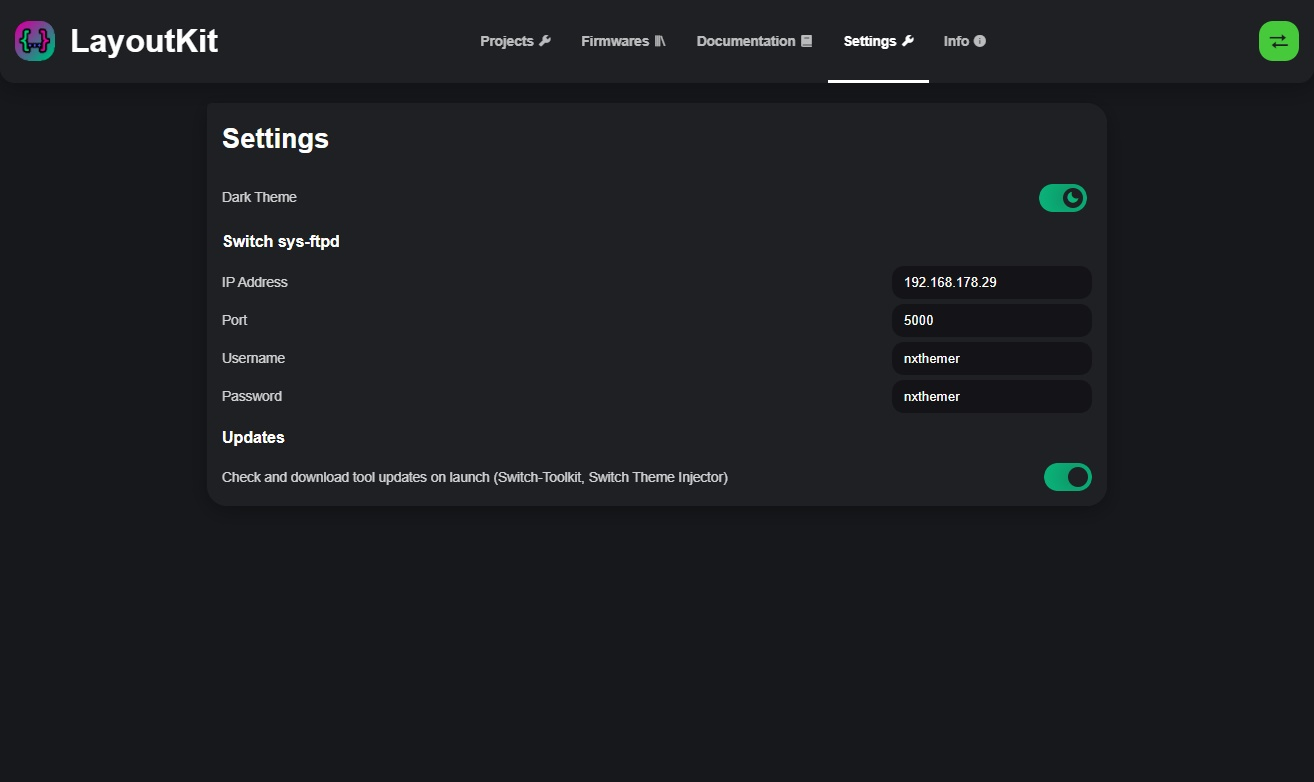
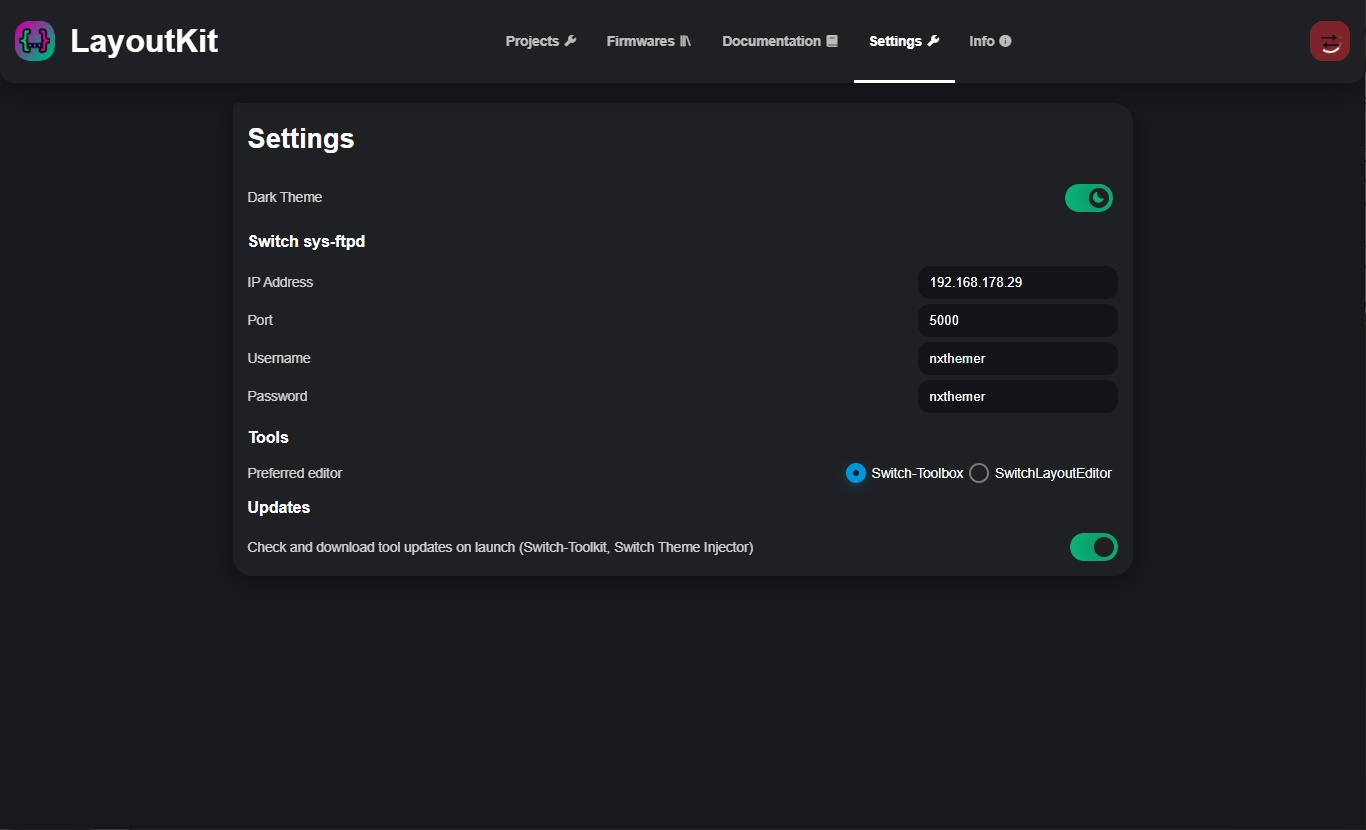
Add support for SwitchLayoutEditor

diff --git a/src/renderer/plugins/managers/toolManager.ts b/src/renderer/plugins/managers/toolManager.ts
@@ -4,6 +4,7 @@ import {
     FIRMWARES_DIR,
     getFiles,
     LAYOUTEDITOR_DIR,
+    LAYOUTEDITOR_EXE,
     PROJECTS_DIR,
     SARCTOOL_DIR,
     SARCTOOL_EXE,
@@ -219,7 +220,7 @@ export default (context: any, inject: any) => {
             // await $toolManager.updateSarcTool();
             await $toolManager.updateThemeInjector();
             await $toolManager.updateToolbox();
-            // await $toolManager.updateLayoutEditor();
+            await $toolManager.updateLayoutEditor();
             context.store.commit("CHECKING_FOR_TOOL_UPDATES_MESSAGE", "");
         },
         szs: {
@@ -244,36 +245,46 @@ export default (context: any, inject: any) => {
                 });
             },
         },
-        toolbox: {
+        editor: {
             open() {
                 return this.openPaths([]); // quick solution
             },
-            openPaths(paths: Array<string>) {
+            openPaths(paths: Array<string>, awaitClose: boolean = false) {
                 return new Promise(async (resolve) => {
                     const userDataPath = await context.$ipcService.fs.getUserDataPath();
-                    const toolboxPath = path.join(userDataPath, TOOLS_DIR, TOOLBOX_DIR, TOOLBOX_EXE);
-                    const ls = spawn(toolboxPath, paths);
-                    ls.stdout.on("data", () => {
+                    let editorPath;
+                    if (context.store.state.settings.preferredEditor === "toolbox") {
+                        editorPath = path.join(userDataPath, TOOLS_DIR, TOOLBOX_DIR, TOOLBOX_EXE);
+                    } else if (context.store.state.settings.preferredEditor === "layouteditor") {
+                        editorPath = path.join(userDataPath, TOOLS_DIR, LAYOUTEDITOR_DIR, LAYOUTEDITOR_EXE);
+                    }
+
+                    const ls = spawn(editorPath, paths);
+                    if (awaitClose) {
+                        ls.stdout.on("end", () => {
+                            resolve(null);
+                        });
+                    } else {
                         setTimeout(() => {
                             resolve(null);
                         }, 500);
-                    });
+                    }
                 });
             },
-            async openFolder(dirPath) {
+            async openFolder(dirPath, awaitClose: boolean = false) {
                 const filePaths = getFiles(dirPath)
                     .map((f) => path.join(dirPath, f));
-                await this.openPaths(filePaths);
+                await this.openPaths(filePaths, awaitClose);
             },
             async openProjectFiles(projectId: string, files: Array<string>) {
                 const userDataPath = await context.$ipcService.fs.getUserDataPath();
                 const filePaths = files.map((f) => path.join(userDataPath, PROJECTS_DIR, projectId, f));
-                await this.openPaths(filePaths);
+                await this.openPaths(filePaths, true);
             },
             async openProjectFolder(projectId) {
                 const userDataPath = await context.$ipcService.fs.getUserDataPath();
                 const projectPath = path.join(userDataPath, PROJECTS_DIR, projectId);
-                await this.openFolder(projectPath);
+                await this.openFolder(projectPath, true);
             },
         },
         layoutinjector: {
@@ -298,7 +309,7 @@ export default (context: any, inject: any) => {
                                 } else {
                                     // Prettify the json
                                     const json = editJsonFile(savePath, {stringify_width: 4});
-                                    json.set("PatchName", newFileName)
+                                    json.set("PatchName", newFileName);
                                     json.save();
                                 }
                                 resolve(null);

diff --git a/src/renderer/pages/settings.vue b/src/renderer/pages/settings.vue
@@ -85,6 +85,22 @@
                                 </vs-input>
                             </template>
                         </vse-list-item>
+                        <h3>Tools</h3>
+                        <vse-list-item>
+                            <template #description>
+                                Preferred editor
+                            </template>
+                            <template #button>
+                                <div class="radio">
+                                    <vs-radio color="#0096D8" v-model="preferredEditor" val="toolbox">
+                                        Switch-Toolbox
+                                    </vs-radio>
+                                    <vs-radio color="#0096D8" v-model="preferredEditor" val="layouteditor">
+                                        SwitchLayoutEditor
+                                    </vs-radio>
+                                </div>
+                            </template>
+                        </vse-list-item>
                         <h3>Updates</h3>
                         <vse-list-item>
                             <template #description>
@@ -175,6 +191,14 @@ export default {
                 this.$store.commit("settings/CHECK_TOOL_UPDATES_ON_LAUNCH", value);
             },
         },
+        preferredEditor: {
+            get() {
+                return this.$store.state.settings.preferredEditor;
+            },
+            set(value) {
+                this.$store.commit("settings/PREFERRED_EDITOR", value);
+            },
+        },
     },
     head() {
         const metaTitle = "Settings - LayoutKit";
@@ -193,3 +217,9 @@ export default {
     },
 };
 </script>
+
+<style lang="scss" scoped>
+.radio {
+    display: inline-flex;
+}
+</style>

diff --git a/src/renderer/components/projectBrowser.vue b/src/renderer/components/projectBrowser.vue
@@ -266,13 +266,13 @@ export default {
         },
         openFileInToolbox(fileName) {
             this.$set(this.openFileInToolboxLoading, fileName, true);
-            this.$toolManager.toolbox.openProjectFiles(this.activeProjectId, [fileName]).then(() => {
+            this.$toolManager.editor.openProjectFiles(this.activeProjectId, [fileName]).then(() => {
                 this.$set(this.openFileInToolboxLoading, fileName, false);
             });
         },
         openInToolbox() {
             this.openInToolboxLoading = true;
-            this.$toolManager.toolbox.openProjectFolder(this.activeProjectId).then(() => {
+            this.$toolManager.editor.openProjectFolder(this.activeProjectId).then(() => {
                 this.openInToolboxLoading = false;
             });
         },

diff --git a/src/renderer/pages/index.vue b/src/renderer/pages/index.vue
@@ -26,6 +26,11 @@
                                        @click.prevent="$ipcService.system.openUrl('https://github.com/KillzXGaming/Switch-Toolbox')">
                                         Switch-Toolbox
                                     </a>
+                                    or
+                                    <a href="#"
+                                       @click.prevent="$ipcService.system.openUrl('https://github.com/FuryBaguette/SwitchLayoutEditor')">
+                                        SwitchLayoutEditor
+                                    </a>
                                 </li>
                                 <li>Import and export layout json files using
                                     <a href="#"

diff --git a/src/renderer/store/settings.ts b/src/renderer/store/settings.ts
@@ -6,6 +6,7 @@ export const state = () => ({
     ftpUsername: "nxthemer",
     ftpPassword: "nxthemer",
     checkToolUpdatesOnLaunch: true,
+    preferredEditor: "toolbox",
 });
 
 export const mutations = {
@@ -29,5 +30,8 @@ export const mutations = {
     },
     CHECK_TOOL_UPDATES_ON_LAUNCH(state: any, value: boolean) {
         state.checkToolUpdatesOnLaunch = value;
+    },
+    PREFERRED_EDITOR(state: any, value: string) {
+        state.preferredEditor = value;
     },
 };

diff --git a/src/renderer/plugins/managers/firmwareManager.ts b/src/renderer/plugins/managers/firmwareManager.ts
@@ -102,7 +102,7 @@ export default (context: any, inject: any) => {
                         // Very unlikely!
                         fs.renameSync(filePath, filePath.replace(fileName, `${version}-${fileName}`));
                     }
-                    context.$toolManager.toolbox.openFolder(dirPath).then(resolve);
+                    context.$toolManager.editor.openFolder(dirPath).then(resolve);
                 });
             });
         },

diff --git a/README.md b/README.md
@@ -11,7 +11,7 @@ LayoutKit is a tool that makes it easier to create Nintendo Switch layouts.
 ## **Features** 📝
 
 - Easy project environment management
-- Easily and visually edit files in Switch-Toolbox
+- Easily and visually edit files in Switch-Toolbox or SwitchLayoutEditor
 - Import and export layout json files using Switch Theme Injector
 - Wirelessly transfer menu files to the Switch over FTP
 - Automatically push files after changes were made
@@ -31,6 +31,7 @@ LayoutKit is a tool that makes it easier to create Nintendo Switch layouts.
 ## **Included in this kit** 📜
 
 - [Switch Toolbox](https://github.com/KillzXGaming/Switch-Toolbox) by @KillzXGaming
+- [SwitchLayoutEditor](https://github.com/FuryBaguette/SwitchLayoutEditor) by @FuryBaguette and @exelix11
 - [Switch Theme Injector](https://github.com/exelix11/SwitchThemeInjector) by @exelix11
 
 ## **Screenshots** 🖼
